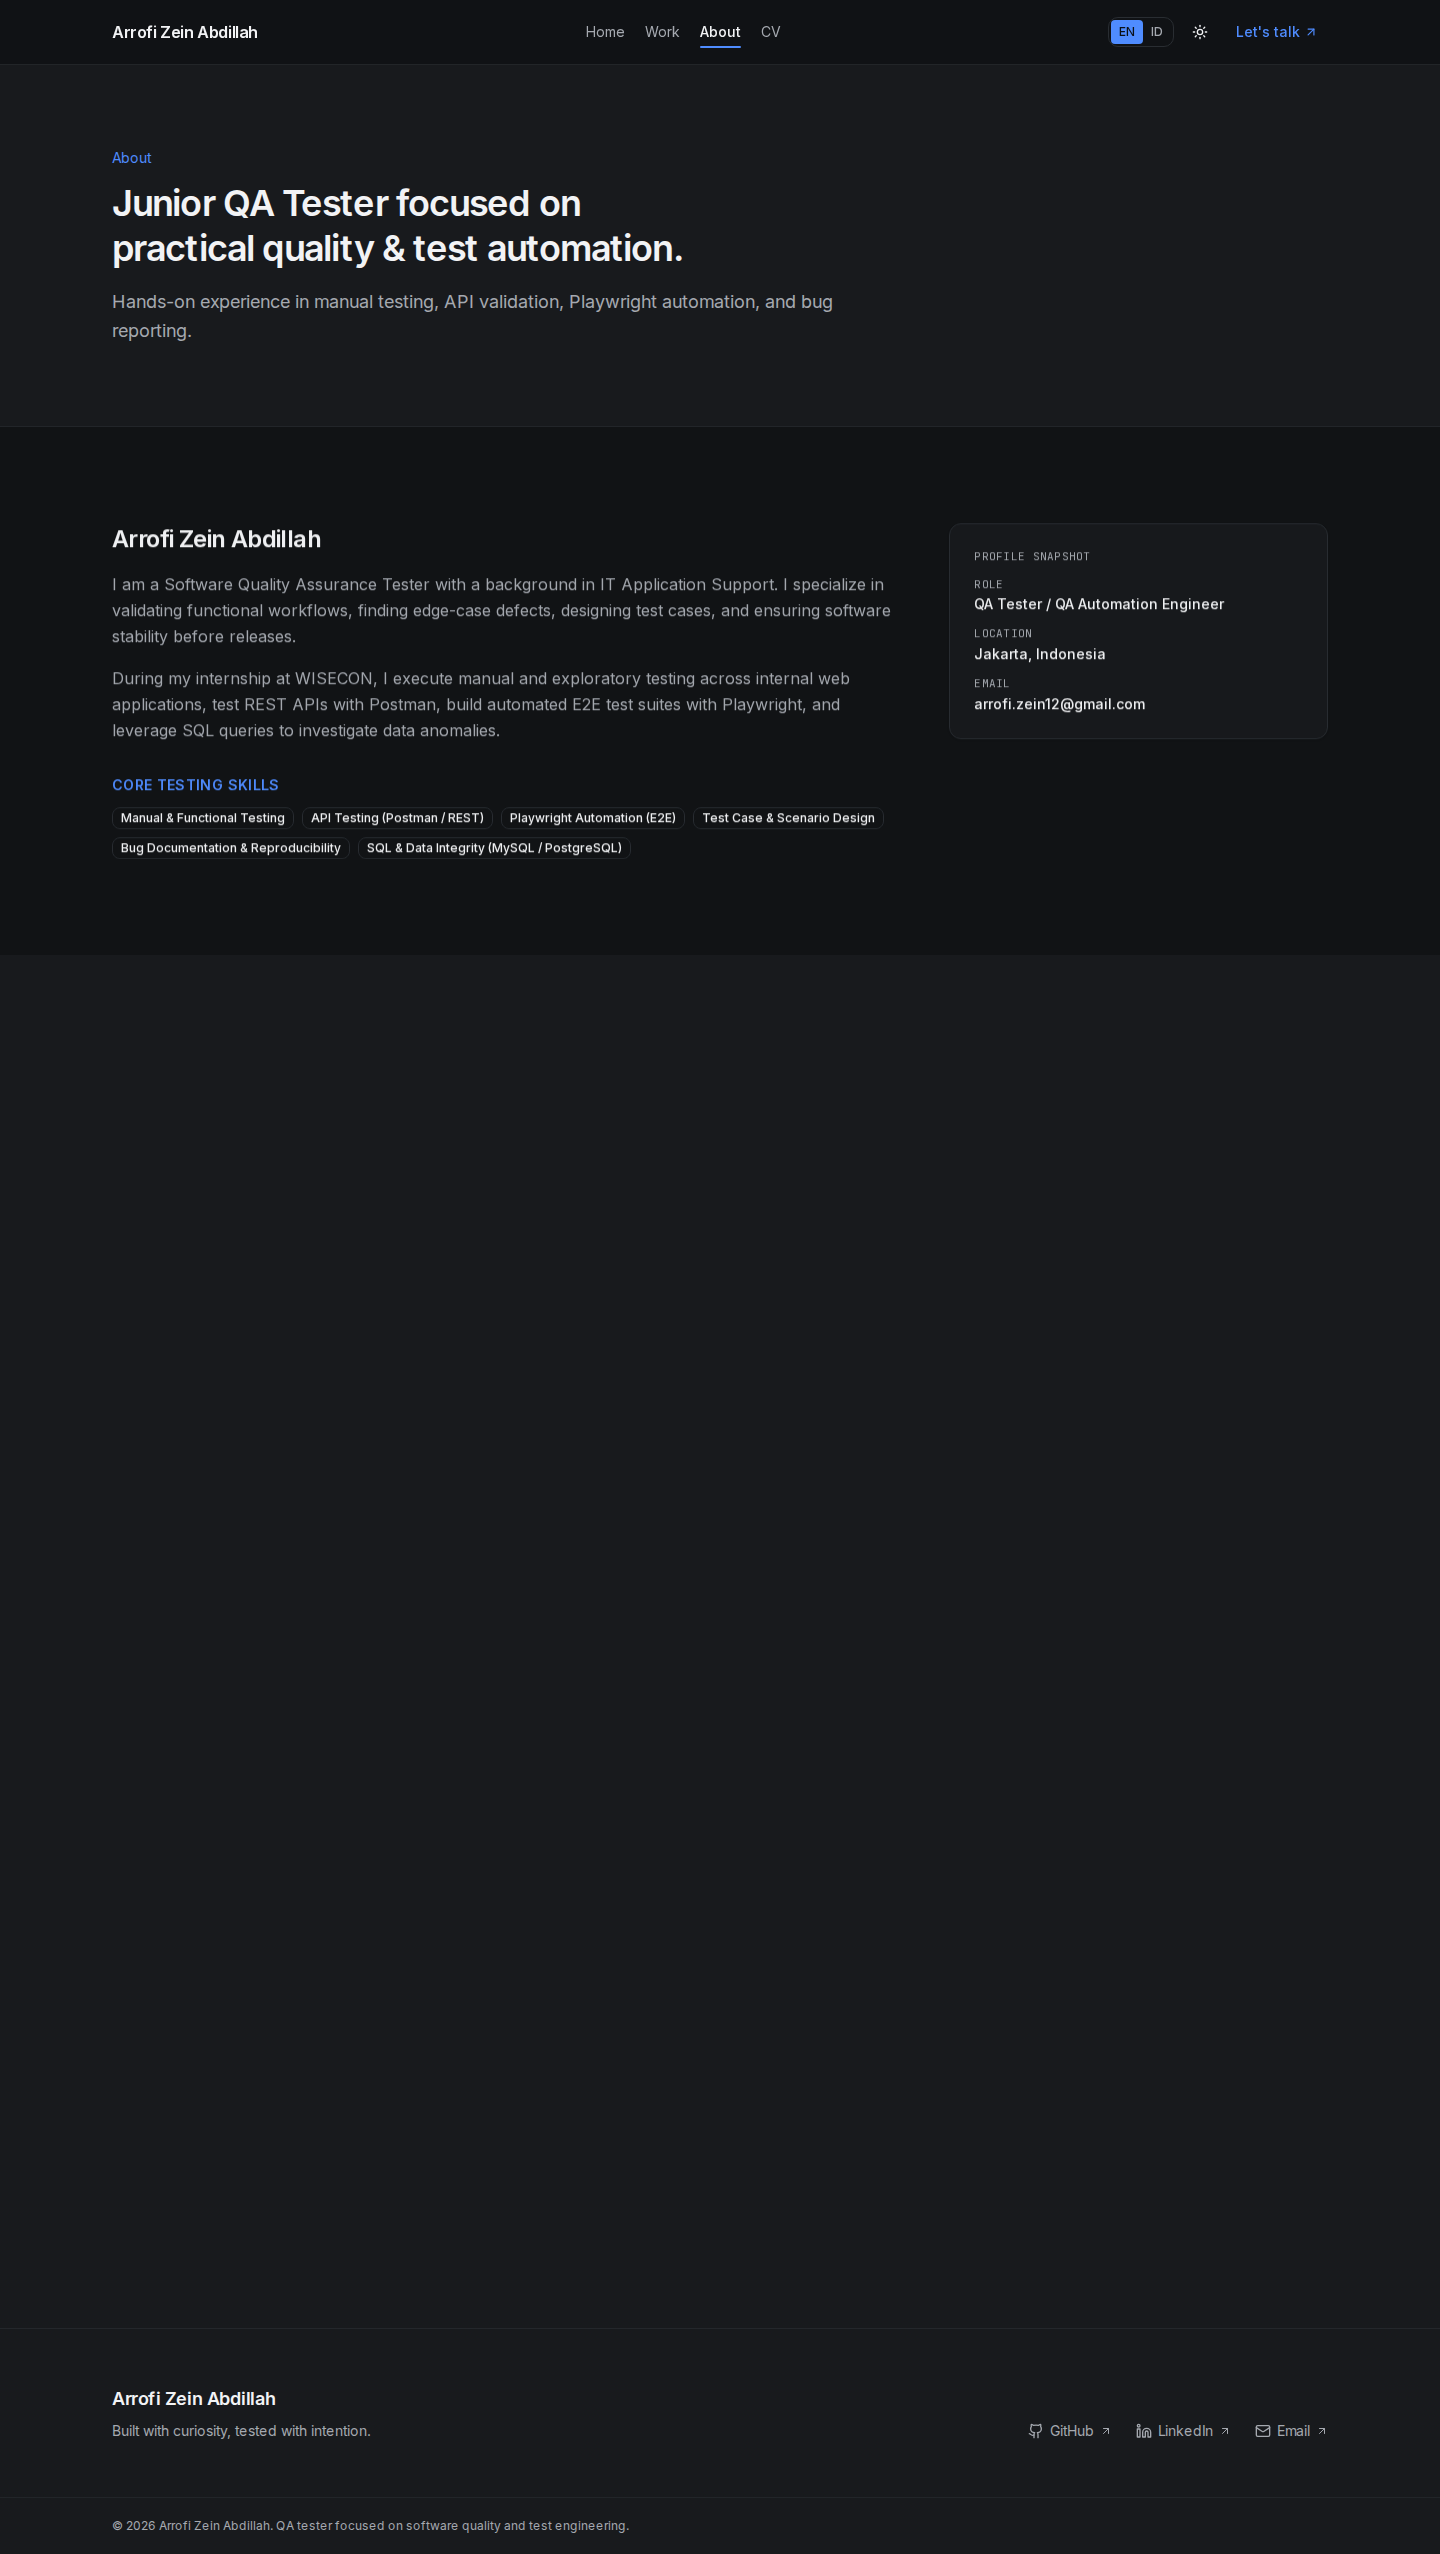
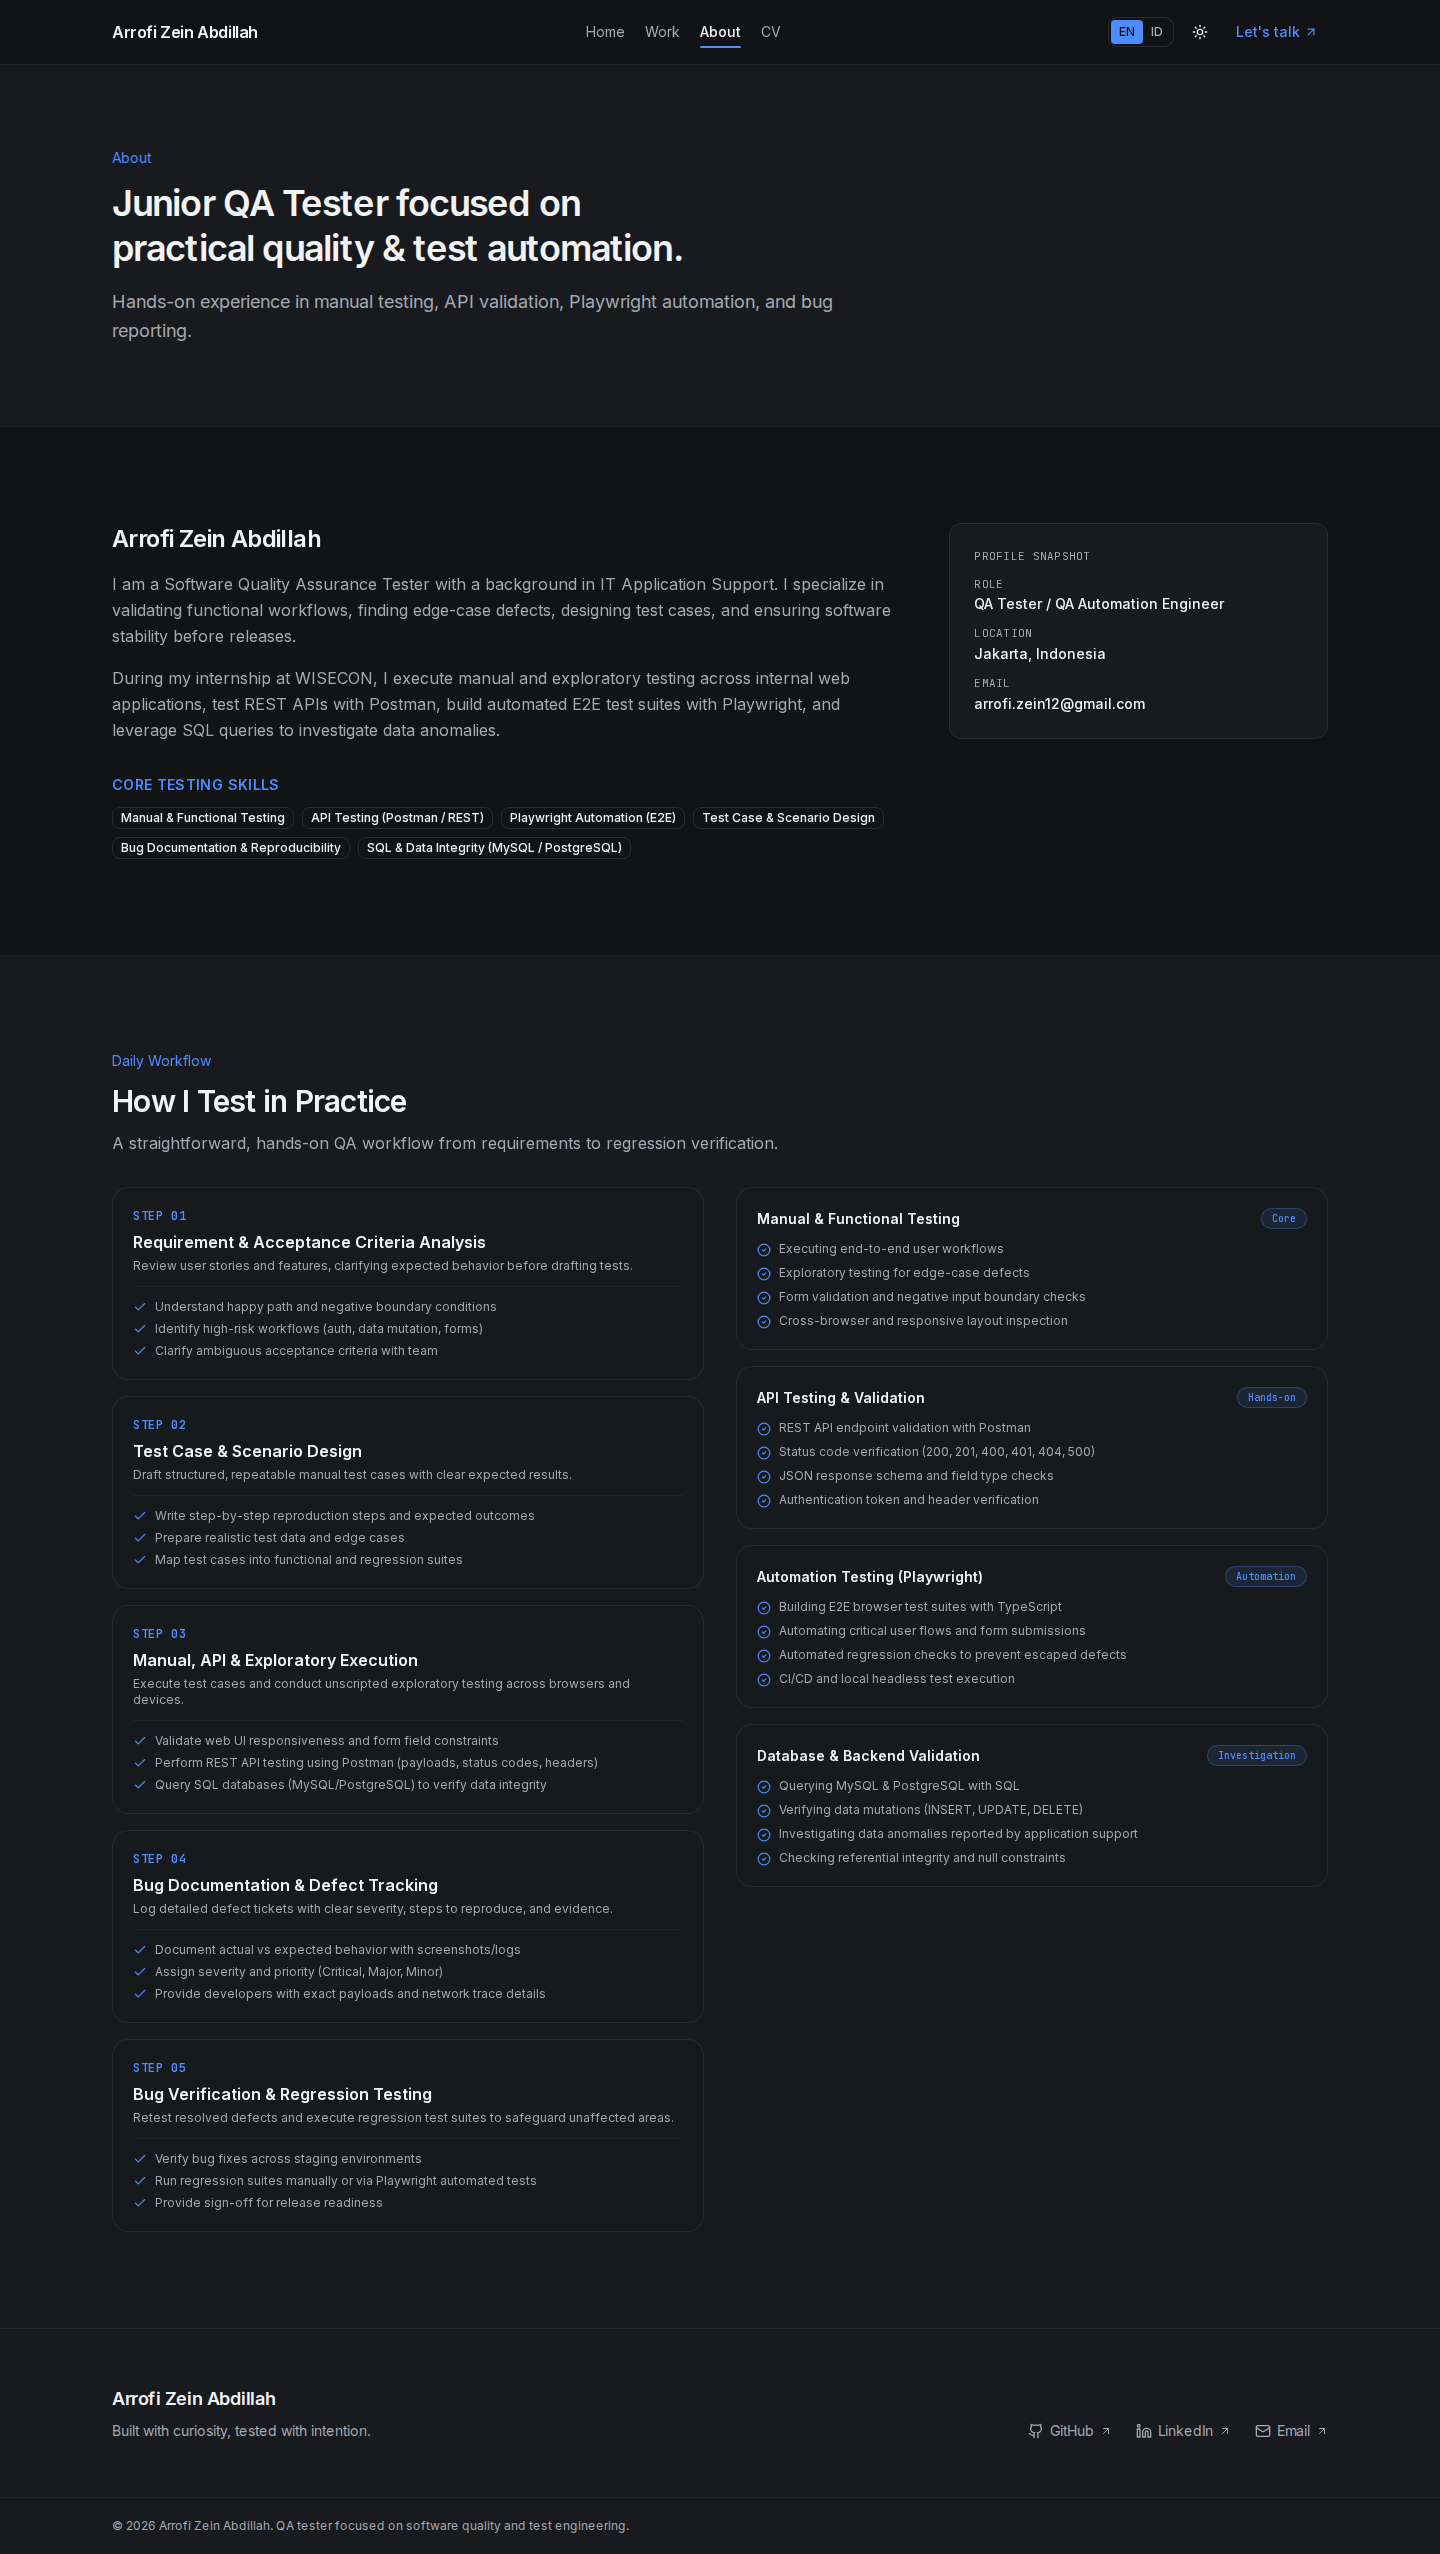
feat: sync exact LinkedIn profile bio, headline, core skills, and real certifications (AWS & Cisco)

diff --git a/content/profile.ts b/content/profile.ts
@@ -89,54 +89,54 @@ export const experience: ExperienceItem[] = [
 
 export const skillGroups: SkillGroup[] = [
   {
-    title: "Testing",
+    title: "Testing & QA",
     skills: [
-      { name: "Functional Testing", usedIn: ["WISECON · QA Tester", "Ranime"] },
-      { name: "Regression Testing", usedIn: ["WISECON · QA Tester"] },
-      { name: "Smoke Testing", usedIn: ["WISECON · QA Tester"] },
-      { name: "Exploratory Testing", usedIn: ["WISECON · QA Tester"] },
-      { name: "End-to-End Testing", usedIn: ["WISECON · QA Tester"] },
-      { name: "Test Case Design", usedIn: ["WISECON · QA Tester"] },
-      { name: "Bug Documentation", usedIn: ["WISECON · QA Tester"] },
+      { name: "Manual & Exploratory Testing", usedIn: ["WISECON · QA Tester", "Ranime"] },
+      { name: "Test Case Design & Documentation", usedIn: ["WISECON · QA Tester"] },
+      { name: "Bug Reporting & Tracking", usedIn: ["WISECON · QA Tester"] },
+      { name: "Functional & Regression Testing", usedIn: ["WISECON · QA Tester"] },
+      { name: "AI Powered Test Automation", usedIn: ["WISECON · QA Tester"] },
     ],
   },
   {
-    title: "Automation",
+    title: "Automation & Tools",
     skills: [
       { name: "Playwright", usedIn: ["WISECON · QA Tester", "my-portfolio"] },
       { name: "AI Testing Tools", usedIn: ["WISECON · QA Tester"] },
-      { name: "Selenium", description: "Foundational automation knowledge" },
+      { name: "Postman / REST API", usedIn: ["Ranime", "WISECON"] },
+      { name: "SQL Server Management Studio (SSMS)", usedIn: ["WISECON"] },
     ],
   },
   {
-    title: "API",
+    title: "Systems & Cloud",
     skills: [
-      { name: "Postman", usedIn: ["Ranime"] },
-      { name: "REST API", usedIn: ["Ranime"] },
-      { name: "GraphQL", usedIn: ["Ranime"] },
-      { name: "JSON", usedIn: ["Ranime"] },
-      { name: "HTTP", description: "Methods, status codes, headers" },
+      { name: "Linux Administration (Debian/Ubuntu)", usedIn: ["Servers & Projects"] },
+      { name: "AWS Cloud Essentials", description: "AWS Knowledge: Cloud Essentials Training Badge" },
+      { name: "Cybersecurity Analyst Foundation", description: "Cisco Certified Junior Cybersecurity Analyst" },
     ],
   },
   {
-    title: "Database",
+    title: "Databases & Dev",
     skills: [
-      { name: "SQL", usedIn: ["WISECON · Application Support"] },
-      { name: "MySQL", usedIn: ["WISECON · Application Support"] },
-      { name: "PostgreSQL", usedIn: ["Ranime"] },
-    ],
-  },
-  {
-    title: "Dev Tools",
-    skills: [
-      { name: "Git", usedIn: ["All GitHub projects"] },
-      { name: "GitHub", usedIn: ["All GitHub projects"] },
-      { name: "Terminal / CLI", usedIn: ["Todo-cli"] },
+      { name: "SQL & MySQL", usedIn: ["WISECON · Application Support"] },
+      { name: "PostgreSQL & GraphQL", usedIn: ["Ranime"] },
+      { name: "Git & GitHub", usedIn: ["All Projects"] },
+      { name: "Python & Go", usedIn: ["StickerBot", "Todo-cli"] },
     ],
   },
 ];
 
-// Certifications are intentionally empty until real ones are confirmed.
-// The earlier entries (ISTQB, Postman, Playwright) were placeholders and
-// have been removed so the site never claims a credential that isn't real.
-export const certifications: Certification[] = [];
+export const certifications: Certification[] = [
+  {
+    name: "AWS Knowledge: Cloud Essentials",
+    issuer: "Amazon Web Services (AWS)",
+    year: "2025",
+    description: "Core cloud concepts, AWS services, security, pricing, and shared responsibility model.",
+  },
+  {
+    name: "Cisco Certified Junior Cybersecurity Analyst",
+    issuer: "Cisco Networking Academy",
+    year: "2025",
+    description: "Cybersecurity fundamentals, network defense, threat detection, and security operations.",
+  },
+];

diff --git a/lib/i18n.ts b/lib/i18n.ts
@@ -123,20 +123,23 @@ export const translations = {
 
   // About Page
   about_eyebrow: { en: "About", id: "Tentang" },
-  about_title: { en: "Junior QA Tester focused on practical quality & test automation.", id: "Junior QA Tester yang berfokus pada pengujian praktis & otomatisasi test." },
+  about_title: {
+    en: "Quality Assurance Tester with a passion for Linux systems and AI-driven automation.",
+    id: "Quality Assurance Tester dengan minat mendalam pada sistem Linux & otomatisasi berbasis AI.",
+  },
   about_desc: {
-    en: "Hands-on experience in manual testing, API validation, Playwright automation, and bug reporting.",
-    id: "Berpengalaman langsung dalam manual testing, validasi API, otomasi Playwright, dan dokumentasi defect yang jelas.",
+    en: "Interning at PT Wisesa Consulting Indonesia (WISECON) · Application Support & QA Tester.",
+    id: "Sedang magang di PT Wisesa Consulting Indonesia (WISECON) · Application Support & QA Tester.",
   },
   about_p1: {
-    en: "I am a Software Quality Assurance Tester with a background in IT Application Support. I specialize in validating functional workflows, finding edge-case defects, designing test cases, and ensuring software stability before releases.",
-    id: "Saya adalah Software Quality Assurance Tester dengan latar belakang IT Application Support. Saya terbiasa menguji alur fungsional, mencari edge-case defect, merancang test case terstruktur, dan memastikan stabilitas software sebelum rilis.",
+    en: "Currently interning at PT Wisesa Consulting Indonesia, where I handle application support, troubleshoot technical issues, and ensure smooth daily system operations. I believe quality isn't just about finding bugs, it's about building processes that prevent them.",
+    id: "Saat ini magang di PT Wisesa Consulting Indonesia (WISECON), menangani application support, investigasi kendala teknis, dan memastikan operasional sistem harian berjalan lancar. Bagi saya, kualitas bukan sekadar mencari bug, melainkan membangun proses terstruktur untuk mencegahnya.",
   },
   about_p2: {
-    en: "During my internship at WISECON, I execute manual and exploratory testing across internal web applications, test REST APIs with Postman, build automated E2E test suites with Playwright, and leverage SQL queries to investigate data anomalies.",
-    id: "Selama magang di WISECON, saya mengeksekusi manual & exploratory testing pada web internal, menguji REST API dengan Postman, membangun automated E2E test suite dengan Playwright, dan memanfaatkan query SQL untuk investigasi anomali data.",
+    en: "That's why I combine manual testing discipline with AI automation tools to deliver faster, more reliable results. When I'm not testing, you'll find me deep in the Linux terminal, configuring servers, exploring open-source tools, and pushing the boundaries of what automation can do.",
+    id: "Oleh karena itu, saya memadukan kedisiplinan manual testing dengan tools otomasi AI untuk hasil pengujian yang lebih cepat dan andal. Di luar testing, saya aktif mengeksplorasi terminal Linux, konfigurasi server Debian/Ubuntu, dan berbagai open-source tools.",
   },
-  about_focus_heading: { en: "Core Testing Skills", id: "Keahlian Pengujian Utama" },
+  about_focus_heading: { en: "Core Skills", id: "Keahlian Utama" },
   about_snapshot: { en: "Profile Snapshot", id: "Ringkasan Profil" },
   about_role: { en: "Role", id: "Peran" },
   about_location: { en: "Location", id: "Lokasi" },

diff --git a/lib/site.ts b/lib/site.ts
@@ -4,12 +4,12 @@ export const site = {
   name: "Arrofi Zein Abdillah",
   brand: "Arrofi Zein Abdillah",
   firstName: "Arrofi",
-  title: "Arrofi Zein Abdillah · QA Tester & QA Automation Engineer",
-  role: "QA Tester / QA Automation Engineer",
-  eyebrow: "QUALITY ASSURANCE / SOFTWARE TESTING",
+  title: "Arrofi Zein Abdillah · Quality Assurance Tester & Linux System Enthusiast",
+  role: "Quality Assurance Tester Intern & Linux Enthusiast",
+  eyebrow: "QUALITY ASSURANCE / SYSTEM ENTHUSIAST",
   tagline: "I test software with evidence, not assumptions.",
   description:
-    "QA Tester focused on functional testing, API validation, automation, and finding defects before users do.",
+    "Quality Assurance Tester with a passion for Linux systems and AI-driven automation. Experience in application support, manual testing, API validation, and test case design at WISECON.",
   email: "arrofi.zein12@gmail.com",
   location: "Jakarta, Indonesia",
   links: {

diff --git a/components/about/about-client.tsx b/components/about/about-client.tsx
@@ -11,12 +11,12 @@ import { Badge } from "@/components/ui/badge";
 import { MethodologyAccordion, RiskMatrix } from "@/components/sections/methodology";
 
 const focus = [
-  "Manual & Functional Testing",
-  "API Testing (Postman / REST)",
-  "Playwright Automation (E2E)",
-  "Test Case & Scenario Design",
-  "Bug Documentation & Reproducibility",
-  "SQL & Data Integrity (MySQL / PostgreSQL)",
+  "Manual & Exploratory Testing",
+  "Test Case Design & Documentation",
+  "AI Powered Test Automation",
+  "Linux System Administration (Debian/Ubuntu)",
+  "API & Functional Testing",
+  "Bug Reporting & Tracking",
 ];
 
 export function AboutClient() {
